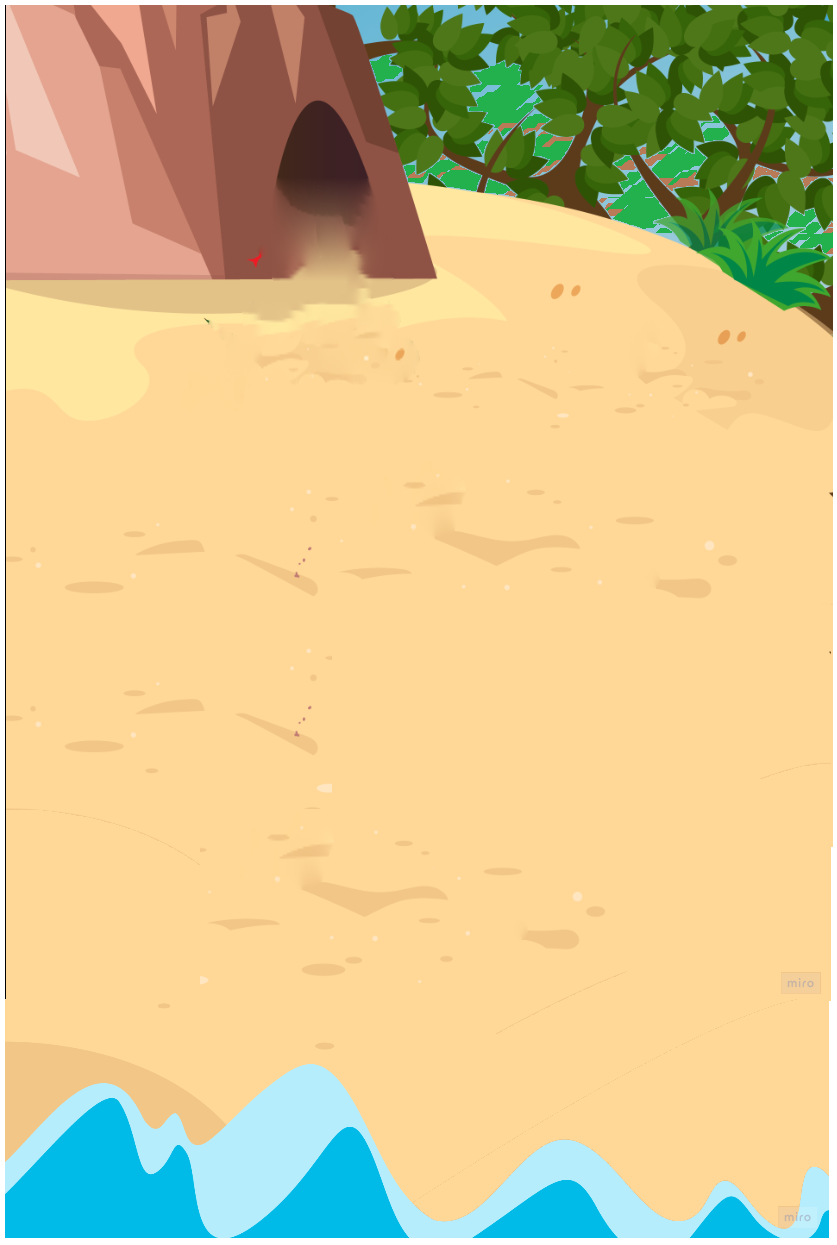
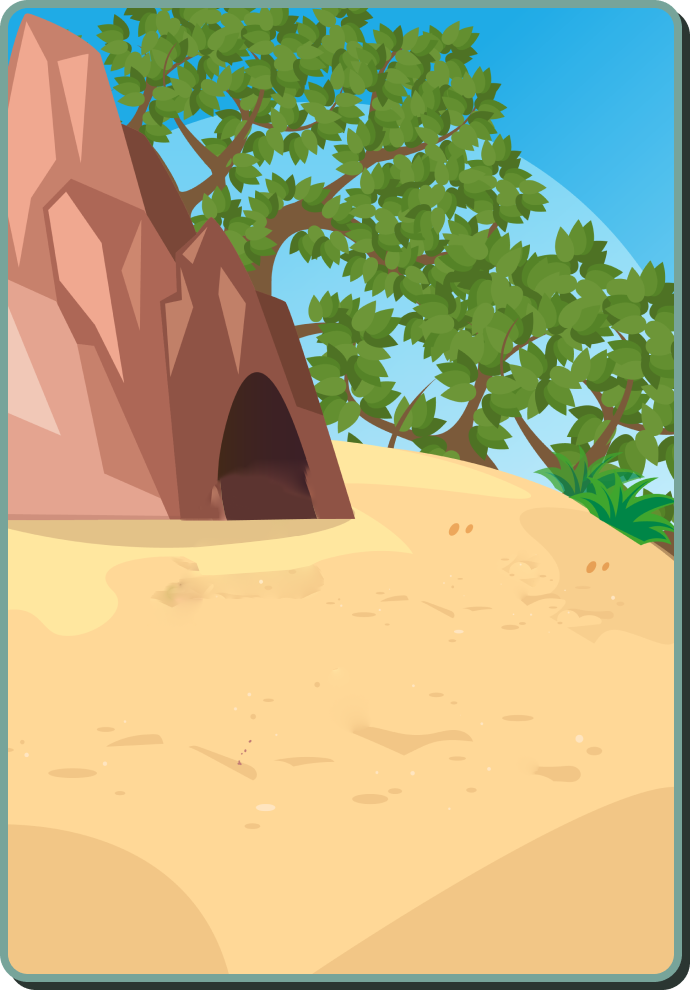
refactor code for positioning seaShells
remove comments, not util code

diff --git a/src/scenes/level5.js b/src/scenes/level5.js
@@ -39,24 +39,50 @@ export default class level5 extends Phaser.Scene {
     }
 
     create() {
-        this.add.image(550, 320, "background")
-            .setScale(0.53)
+        this.add.image(720, 512, "background")
 
         // create the group
         this.seaShells = this.physics.add.staticGroup()
 
         // create 3 seaShells from the group
-        for (let i = 0; i < 3; i++) {
-            const x = Phaser.Math.Between(328, 772)
-            const y = Phaser.Math.Between(350, 400)
+        let positions = [];
+        const leftBorder = 430;
+        const rightBorder = 1000;
+        const upBorder = 600;
+        const downBorder = 860;
 
-            /** @type {Phaser.Physics.Arcade.Sprite} */
-            const seaShell = this.seaShells.create(x, y, "seaShell")
-            seaShell.scale = 0.5
+        let i = 0;
+        while (positions.length < 3) {
+            let x = Phaser.Math.Between(leftBorder, rightBorder);
+            let y = Phaser.Math.Between(upBorder, downBorder);
 
-            /** @type {Phaser.Physics.Arcade.StaticBody} */
-            const body = seaShell.body
-            body.updateFromGameObject()
+            if (!checkOverlap(x, y, positions)) {
+                positions.push({x: x, y: y});
+
+                /** @type {Phaser.Physics.Arcade.Sprite} */
+                const seaShell = this.seaShells.create(x, y, "seaShell")
+                seaShell.scale = 0.6
+
+                // Add a label to the seaShell
+                const label = this.add.text(x, y, (i+1).toString(), { fontSize: '32px', fill: '#000' });
+                this.seaShells.add(label);
+
+                /** @type {Phaser.Physics.Arcade.StaticBody} */
+                const body = seaShell.body
+                body.updateFromGameObject()
+
+                i++
+            }
+
+            function checkOverlap(x, y, positions) {
+                const tolerance = 70; // Define your own tolerance
+                for (let pos of positions) {
+                    if (Math.abs(pos.x - x) < tolerance && Math.abs(pos.y - y) < tolerance) {
+                        return true;
+                    }
+                }
+                return false;
+            }
         }
 
         // modal when clicking a seaShell
@@ -68,76 +94,17 @@ export default class level5 extends Phaser.Scene {
             });
         });
 
-        // create a eagle sprite
-        //this.player = this.physics.add.sprite(540, 520, "eagle-stand")
-        //    .setScale(0.15)
-        //    .setInteractive()
-        //    .setCollideWorldBounds(true); // Enable collision with world bounds for the eagle
-
-        // Now we'll set up a function to run whenever the player collides with the world bounds
-        //this.player.body.onWorldBounds = true; // Enable the onWorldBounds event for this body
-
-        //this.player.body.world.on('worldbounds', function(body) {
-            // Check if the body's game object is the one you're interested in
-        //    if (body.gameObject === this) {
-        //        this.setVelocityX(0);
-        //    }
-        //}, this.player);
-
-
-        //this.input.on('pointermove', (pointer) => {
-        //    let angle = Phaser.Math.Angle.Between(this.player.x, this.player.y, pointer.x, pointer.y);
-        //    this.physics.velocityFromAngle(Phaser.Math.RadToDeg(angle), 200, this.player.body.velocity);
-        //});
-
         // create a snake sprite
-        this.snake = this.physics.add.sprite(640, 150, "snake-stand")
-            .setScale(0.15)
+        this.snake = this.physics.add.sprite(680, 500, "snake-stand")
+            .setScale(0.25)
 
         // create a seaShell sprite
-        this.seaShellMain = this.physics.add.sprite(620, 180, "seaShellMain")
-            .setScale(0.5)
-
-        //this.physics.add.collider(this.seaShells, this.player)
+        this.seaShellMain = this.physics.add.sprite(640, 550, "seaShellMain")
+            .setScale(0.6)
 
     }
 
     update(t, d) {
-        this.seaShells.children.iterate(child => {
-            /** @type {Phaser.Physics.Arcade.Sprite} */
-            const seaShell = child
-
-            const scrollY = this.cameras.main.scrollY
-            if (seaShell.y >= scrollY + 700) {
-                seaShell.y = scrollY - Phaser.Math.Between(50, 100)
-                seaShell.body.updateFromGameObject()
-
-            }
-        })
-
-        // restrict player movement to main scene
-        //const leftLimit = 335;
-        //const rightLimit = 690;
-
-        // left and right input logic
-        //if (this.cursors.left.isDown && this.player.body.x > leftLimit) {
-        //    this.player.setVelocityX(-200)
-        //}
-        //else if (this.cursors.right.isDown && this.player.body.x < rightLimit) {
-        //    this.player.setVelocityX(200)
-        //}
-        //else if (this.cursors.up.isDown && this.player.body.x > leftLimit && this.player.body.x < rightLimit) {
-        //    this.player.setVelocityY(-200)
-        //}
-        //else if (this.cursors.down.isDown && this.player.body.x > leftLimit && this.player.body.x < rightLimit) {
-        //    this.player.setVelocityY(200)
-        //}
-        //else {
-            // stop movement if not left or right
-        //    this.player.setVelocityX(0)
-        //    this.player.setVelocityY(0)
-        //}
-
+        
     }
-
 }

diff --git a/src/index.js b/src/index.js
@@ -5,8 +5,8 @@ import ModalScene from "./scenes/modalScene.js";
 
 export default new Phaser.Game({
     type: Phaser.AUTO,
-    width: 1100,
-    height: 640,
+    width: 1440,
+    height: 1024,
     scene: [Level5, ModalScene], 
     physics: {
         default: "arcade",
